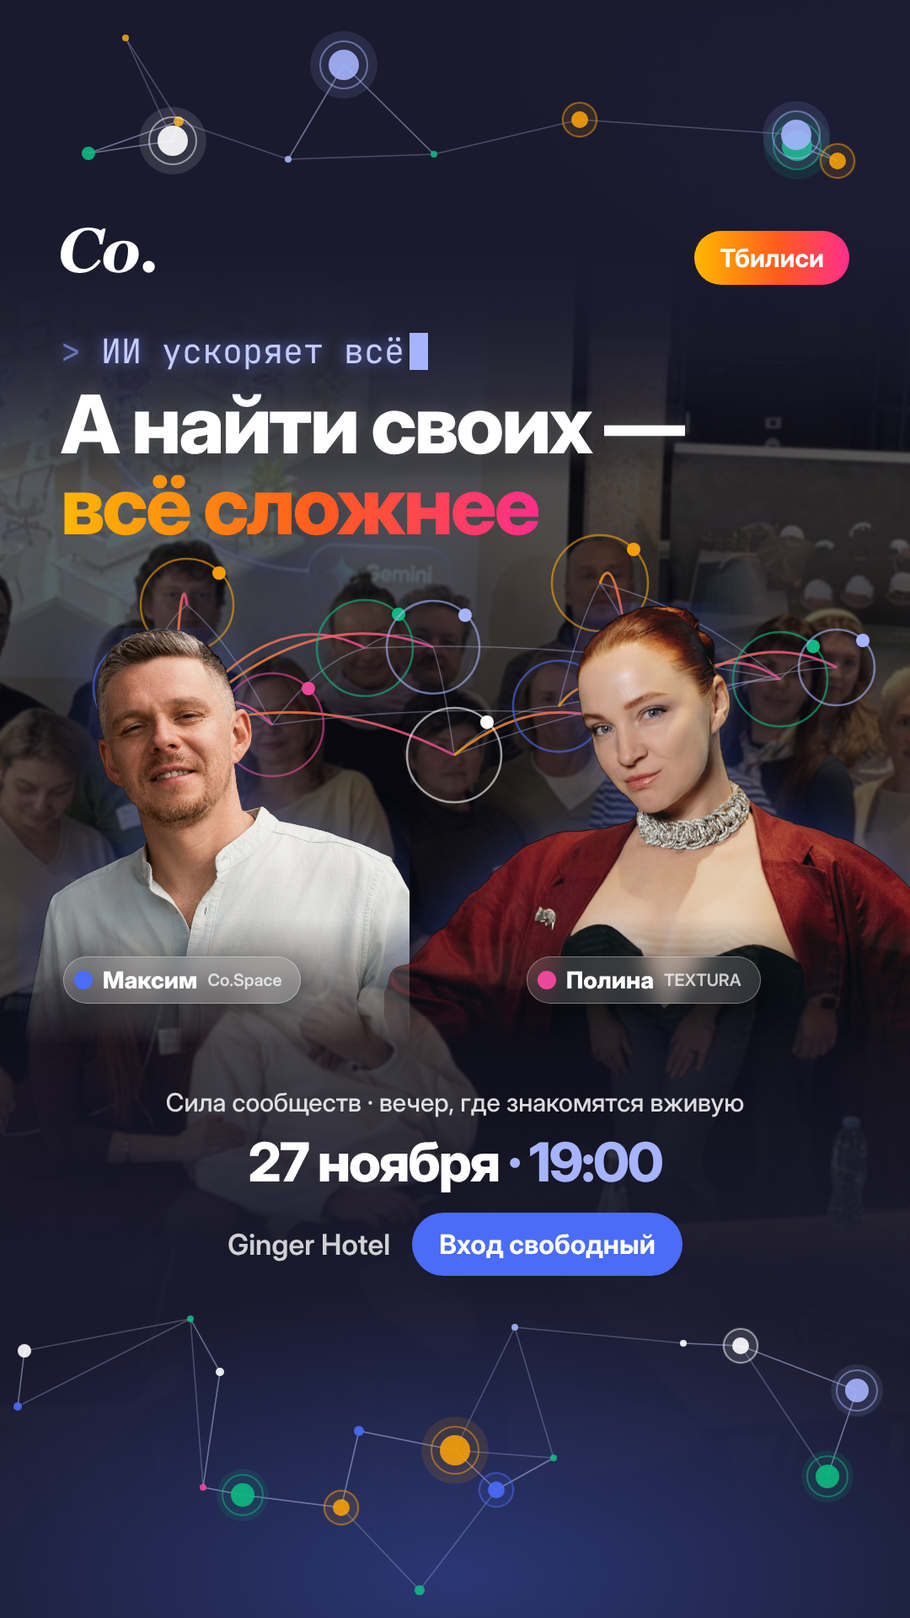
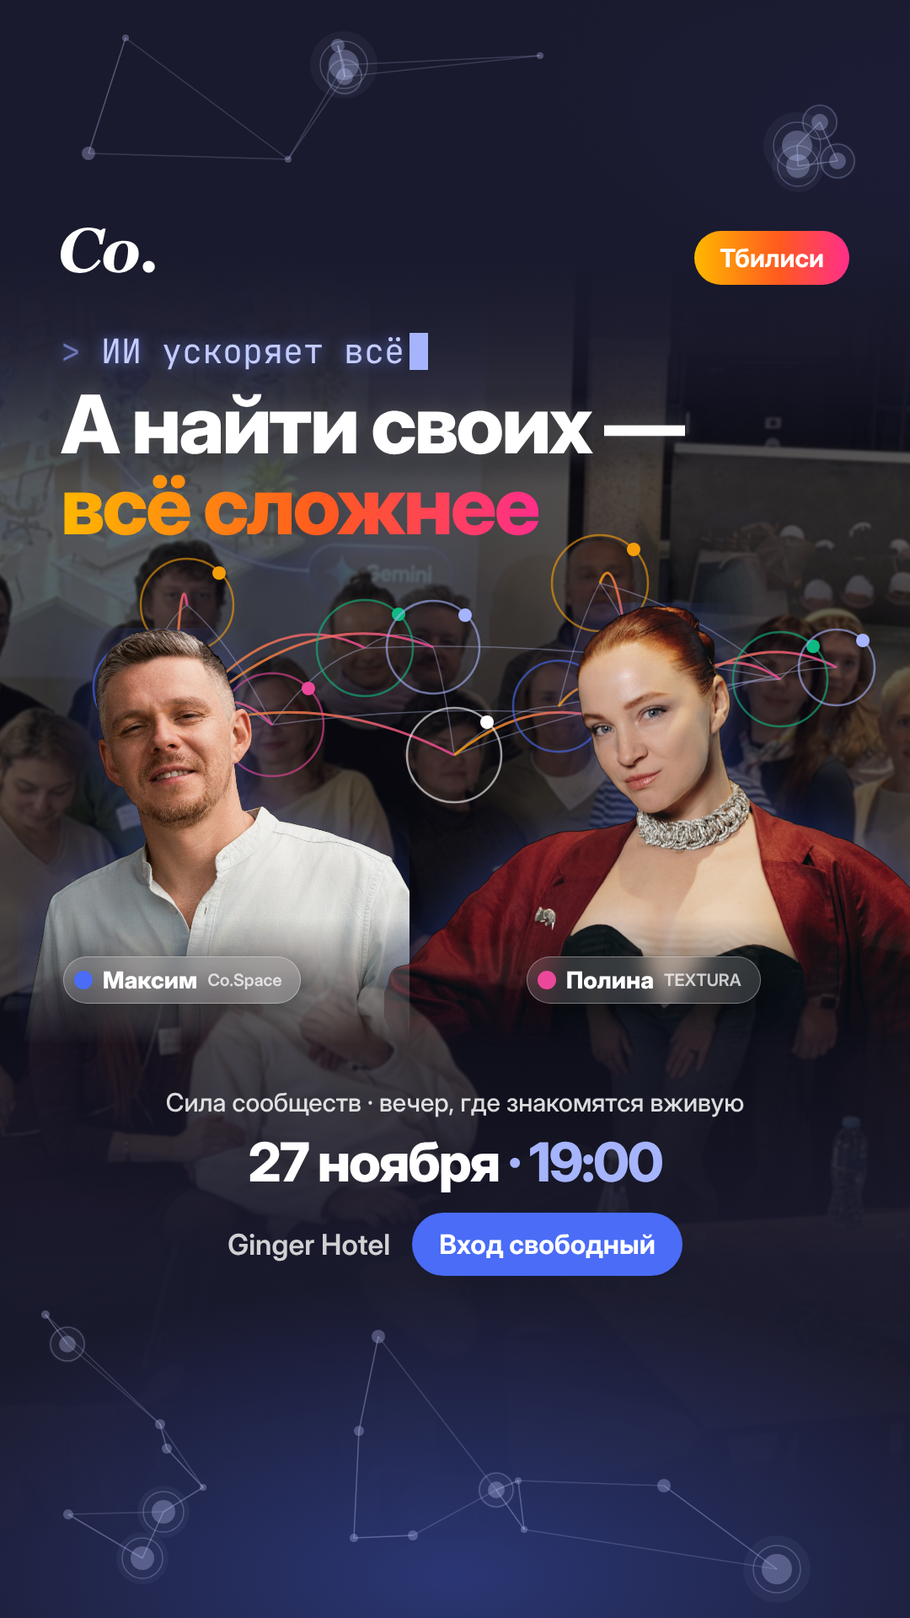
Сторис: декоративная сеть полупрозрачная, без цвета

diff --git a/creatives/src/poster/poster3-9x16.html b/creatives/src/poster/poster3-9x16.html
@@ -30,7 +30,7 @@ h1 em{font-style:normal;text-shadow:none;background:linear-gradient(90deg,#FFB80
 .place{font-size:34px;color:rgba(255,255,255,.8);font-weight:600}
 .cta{background:#4A6CF7;border-radius:44px;padding:18px 32px;font-size:32px;font-weight:700}
 </style></head><body><img class="bg" src="group.src.jpg"><div class="shade"></div>
-<div class="glow"></div><svg class="net" width="1080" height="1920" viewBox="0 0 1080 1920"><line x1="946" y1="173" x2="945" y2="160" stroke="#C7CEFF" stroke-width="1.5" opacity=".28"/><line x1="946" y1="173" x2="994" y2="191" stroke="#C7CEFF" stroke-width="1.5" opacity=".28"/><line x1="945" y1="160" x2="946" y2="173" stroke="#C7CEFF" stroke-width="1.5" opacity=".28"/><line x1="945" y1="160" x2="994" y2="191" stroke="#C7CEFF" stroke-width="1.5" opacity=".28"/><line x1="408" y1="77" x2="342" y2="189" stroke="#C7CEFF" stroke-width="1.5" opacity=".28"/><line x1="408" y1="77" x2="515" y2="183" stroke="#C7CEFF" stroke-width="1.5" opacity=".28"/><line x1="994" y1="191" x2="946" y2="173" stroke="#C7CEFF" stroke-width="1.5" opacity=".28"/><line x1="994" y1="191" x2="945" y2="160" stroke="#C7CEFF" stroke-width="1.5" opacity=".28"/><line x1="212" y1="144" x2="205" y2="167" stroke="#C7CEFF" stroke-width="1.5" opacity=".28"/><line x1="212" y1="144" x2="105" y2="182" stroke="#C7CEFF" stroke-width="1.5" opacity=".28"/><line x1="205" y1="167" x2="212" y2="144" stroke="#C7CEFF" stroke-width="1.5" opacity=".28"/><line x1="205" y1="167" x2="105" y2="182" stroke="#C7CEFF" stroke-width="1.5" opacity=".28"/><line x1="105" y1="182" x2="205" y2="167" stroke="#C7CEFF" stroke-width="1.5" opacity=".28"/><line x1="105" y1="182" x2="212" y2="144" stroke="#C7CEFF" stroke-width="1.5" opacity=".28"/><line x1="342" y1="189" x2="408" y2="77" stroke="#C7CEFF" stroke-width="1.5" opacity=".28"/><line x1="342" y1="189" x2="212" y2="144" stroke="#C7CEFF" stroke-width="1.5" opacity=".28"/><line x1="149" y1="45" x2="212" y2="144" stroke="#C7CEFF" stroke-width="1.5" opacity=".28"/><line x1="149" y1="45" x2="205" y2="167" stroke="#C7CEFF" stroke-width="1.5" opacity=".28"/><line x1="515" y1="183" x2="408" y2="77" stroke="#C7CEFF" stroke-width="1.5" opacity=".28"/><line x1="515" y1="183" x2="342" y2="189" stroke="#C7CEFF" stroke-width="1.5" opacity=".28"/><line x1="688" y1="142" x2="515" y2="183" stroke="#C7CEFF" stroke-width="1.5" opacity=".28"/><line x1="688" y1="142" x2="945" y2="160" stroke="#C7CEFF" stroke-width="1.5" opacity=".28"/><line x1="498" y1="1887" x2="405" y2="1789" stroke="#C7CEFF" stroke-width="1.5" opacity=".28"/><line x1="498" y1="1887" x2="589" y2="1768" stroke="#C7CEFF" stroke-width="1.5" opacity=".28"/><line x1="29" y1="1603" x2="21" y2="1669" stroke="#C7CEFF" stroke-width="1.5" opacity=".28"/><line x1="29" y1="1603" x2="226" y2="1565" stroke="#C7CEFF" stroke-width="1.5" opacity=".28"/><line x1="589" y1="1768" x2="540" y2="1721" stroke="#C7CEFF" stroke-width="1.5" opacity=".28"/><line x1="589" y1="1768" x2="657" y2="1730" stroke="#C7CEFF" stroke-width="1.5" opacity=".28"/><line x1="540" y1="1721" x2="589" y2="1768" stroke="#C7CEFF" stroke-width="1.5" opacity=".28"/><line x1="540" y1="1721" x2="426" y2="1698" stroke="#C7CEFF" stroke-width="1.5" opacity=".28"/><line x1="611" y1="1575" x2="657" y2="1730" stroke="#C7CEFF" stroke-width="1.5" opacity=".28"/><line x1="611" y1="1575" x2="540" y2="1721" stroke="#C7CEFF" stroke-width="1.5" opacity=".28"/><line x1="241" y1="1765" x2="288" y2="1774" stroke="#C7CEFF" stroke-width="1.5" opacity=".28"/><line x1="241" y1="1765" x2="261" y2="1628" stroke="#C7CEFF" stroke-width="1.5" opacity=".28"/><line x1="811" y1="1594" x2="879" y2="1597" stroke="#C7CEFF" stroke-width="1.5" opacity=".28"/><line x1="811" y1="1594" x2="611" y2="1575" stroke="#C7CEFF" stroke-width="1.5" opacity=".28"/><line x1="21" y1="1669" x2="29" y2="1603" stroke="#C7CEFF" stroke-width="1.5" opacity=".28"/><line x1="21" y1="1669" x2="226" y2="1565" stroke="#C7CEFF" stroke-width="1.5" opacity=".28"/><line x1="982" y1="1752" x2="1017" y2="1650" stroke="#C7CEFF" stroke-width="1.5" opacity=".28"/><line x1="982" y1="1752" x2="879" y2="1597" stroke="#C7CEFF" stroke-width="1.5" opacity=".28"/><line x1="879" y1="1597" x2="811" y2="1594" stroke="#C7CEFF" stroke-width="1.5" opacity=".28"/><line x1="879" y1="1597" x2="1017" y2="1650" stroke="#C7CEFF" stroke-width="1.5" opacity=".28"/><line x1="426" y1="1698" x2="405" y2="1789" stroke="#C7CEFF" stroke-width="1.5" opacity=".28"/><line x1="426" y1="1698" x2="540" y2="1721" stroke="#C7CEFF" stroke-width="1.5" opacity=".28"/><line x1="657" y1="1730" x2="589" y2="1768" stroke="#C7CEFF" stroke-width="1.5" opacity=".28"/><line x1="657" y1="1730" x2="540" y2="1721" stroke="#C7CEFF" stroke-width="1.5" opacity=".28"/><line x1="261" y1="1628" x2="226" y2="1565" stroke="#C7CEFF" stroke-width="1.5" opacity=".28"/><line x1="261" y1="1628" x2="241" y2="1765" stroke="#C7CEFF" stroke-width="1.5" opacity=".28"/><line x1="226" y1="1565" x2="261" y2="1628" stroke="#C7CEFF" stroke-width="1.5" opacity=".28"/><line x1="226" y1="1565" x2="241" y2="1765" stroke="#C7CEFF" stroke-width="1.5" opacity=".28"/><line x1="1017" y1="1650" x2="982" y2="1752" stroke="#C7CEFF" stroke-width="1.5" opacity=".28"/><line x1="1017" y1="1650" x2="879" y2="1597" stroke="#C7CEFF" stroke-width="1.5" opacity=".28"/><line x1="405" y1="1789" x2="426" y2="1698" stroke="#C7CEFF" stroke-width="1.5" opacity=".28"/><line x1="405" y1="1789" x2="288" y2="1774" stroke="#C7CEFF" stroke-width="1.5" opacity=".28"/><line x1="288" y1="1774" x2="241" y2="1765" stroke="#C7CEFF" stroke-width="1.5" opacity=".28"/><line x1="288" y1="1774" x2="405" y2="1789" stroke="#C7CEFF" stroke-width="1.5" opacity=".28"/><circle cx="946" cy="173" r="40" fill="#10B981" opacity=".12"/><circle cx="946" cy="173" r="28" fill="none" stroke="#10B981" stroke-width="2" opacity=".5"/><circle cx="946" cy="173" r="18" fill="#10B981" opacity=".9"/><circle cx="945" cy="160" r="40" fill="#A5B4FC" opacity=".12"/><circle cx="945" cy="160" r="28" fill="none" stroke="#A5B4FC" stroke-width="2" opacity=".5"/><circle cx="945" cy="160" r="18" fill="#A5B4FC" opacity=".9"/><circle cx="408" cy="77" r="40" fill="#A5B4FC" opacity=".12"/><circle cx="408" cy="77" r="28" fill="none" stroke="#A5B4FC" stroke-width="2" opacity=".5"/><circle cx="408" cy="77" r="18" fill="#A5B4FC" opacity=".9"/><circle cx="994" cy="191" r="22" fill="#F59E0B" opacity=".12"/><circle cx="994" cy="191" r="20" fill="none" stroke="#F59E0B" stroke-width="2" opacity=".5"/><circle cx="994" cy="191" r="10" fill="#F59E0B" opacity=".9"/><circle cx="212" cy="144" r="6" fill="#F59E0B" opacity=".9"/><circle cx="205" cy="167" r="40" fill="#FFFFFF" opacity=".12"/><circle cx="205" cy="167" r="28" fill="none" stroke="#FFFFFF" stroke-width="2" opacity=".5"/><circle cx="205" cy="167" r="18" fill="#FFFFFF" opacity=".9"/><circle cx="105" cy="182" r="8" fill="#10B981" opacity=".9"/><circle cx="342" cy="189" r="4" fill="#A5B4FC" opacity=".9"/><circle cx="149" cy="45" r="4" fill="#F59E0B" opacity=".9"/><circle cx="515" cy="183" r="4" fill="#10B981" opacity=".9"/><circle cx="688" cy="142" r="22" fill="#F59E0B" opacity=".12"/><circle cx="688" cy="142" r="20" fill="none" stroke="#F59E0B" stroke-width="2" opacity=".5"/><circle cx="688" cy="142" r="10" fill="#F59E0B" opacity=".9"/><circle cx="498" cy="1887" r="6" fill="#10B981" opacity=".9"/><circle cx="29" cy="1603" r="8" fill="#FFFFFF" opacity=".9"/><circle cx="589" cy="1768" r="22" fill="#4A6CF7" opacity=".12"/><circle cx="589" cy="1768" r="20" fill="none" stroke="#4A6CF7" stroke-width="2" opacity=".5"/><circle cx="589" cy="1768" r="10" fill="#4A6CF7" opacity=".9"/><circle cx="540" cy="1721" r="40" fill="#F59E0B" opacity=".12"/><circle cx="540" cy="1721" r="28" fill="none" stroke="#F59E0B" stroke-width="2" opacity=".5"/><circle cx="540" cy="1721" r="18" fill="#F59E0B" opacity=".9"/><circle cx="611" cy="1575" r="4" fill="#A5B4FC" opacity=".9"/><circle cx="241" cy="1765" r="4" fill="#EC4899" opacity=".9"/><circle cx="811" cy="1594" r="4" fill="#FFFFFF" opacity=".9"/><circle cx="21" cy="1669" r="5" fill="#4A6CF7" opacity=".9"/><circle cx="982" cy="1752" r="31" fill="#10B981" opacity=".12"/><circle cx="982" cy="1752" r="24" fill="none" stroke="#10B981" stroke-width="2" opacity=".5"/><circle cx="982" cy="1752" r="14" fill="#10B981" opacity=".9"/><circle cx="879" cy="1597" r="22" fill="#FFFFFF" opacity=".12"/><circle cx="879" cy="1597" r="20" fill="none" stroke="#FFFFFF" stroke-width="2" opacity=".5"/><circle cx="879" cy="1597" r="10" fill="#FFFFFF" opacity=".9"/><circle cx="426" cy="1698" r="6" fill="#4A6CF7" opacity=".9"/><circle cx="657" cy="1730" r="4" fill="#10B981" opacity=".9"/><circle cx="261" cy="1628" r="5" fill="#FFFFFF" opacity=".9"/><circle cx="226" cy="1565" r="4" fill="#10B981" opacity=".9"/><circle cx="1017" cy="1650" r="31" fill="#A5B4FC" opacity=".12"/><circle cx="1017" cy="1650" r="24" fill="none" stroke="#A5B4FC" stroke-width="2" opacity=".5"/><circle cx="1017" cy="1650" r="14" fill="#A5B4FC" opacity=".9"/><circle cx="405" cy="1789" r="22" fill="#F59E0B" opacity=".12"/><circle cx="405" cy="1789" r="20" fill="none" stroke="#F59E0B" stroke-width="2" opacity=".5"/><circle cx="405" cy="1789" r="10" fill="#F59E0B" opacity=".9"/><circle cx="288" cy="1774" r="31" fill="#10B981" opacity=".12"/><circle cx="288" cy="1774" r="24" fill="none" stroke="#10B981" stroke-width="2" opacity=".5"/><circle cx="288" cy="1774" r="14" fill="#10B981" opacity=".9"/></svg>
+<div class="glow"></div><svg class="net" width="1080" height="1920" viewBox="0 0 1080 1920"><line x1="946" y1="173" x2="947" y2="197" stroke="#C7CEFF" stroke-width="1.5" opacity=".18"/><line x1="946" y1="173" x2="973" y2="145" stroke="#C7CEFF" stroke-width="1.5" opacity=".18"/><line x1="973" y1="145" x2="946" y2="173" stroke="#C7CEFF" stroke-width="1.5" opacity=".18"/><line x1="973" y1="145" x2="994" y2="191" stroke="#C7CEFF" stroke-width="1.5" opacity=".18"/><line x1="408" y1="77" x2="409" y2="91" stroke="#C7CEFF" stroke-width="1.5" opacity=".18"/><line x1="408" y1="77" x2="401" y2="54" stroke="#C7CEFF" stroke-width="1.5" opacity=".18"/><line x1="994" y1="191" x2="947" y2="197" stroke="#C7CEFF" stroke-width="1.5" opacity=".18"/><line x1="994" y1="191" x2="973" y2="145" stroke="#C7CEFF" stroke-width="1.5" opacity=".18"/><line x1="401" y1="54" x2="408" y2="77" stroke="#C7CEFF" stroke-width="1.5" opacity=".18"/><line x1="401" y1="54" x2="409" y2="91" stroke="#C7CEFF" stroke-width="1.5" opacity=".18"/><line x1="641" y1="66" x2="408" y2="77" stroke="#C7CEFF" stroke-width="1.5" opacity=".18"/><line x1="641" y1="66" x2="409" y2="91" stroke="#C7CEFF" stroke-width="1.5" opacity=".18"/><line x1="105" y1="182" x2="149" y2="45" stroke="#C7CEFF" stroke-width="1.5" opacity=".18"/><line x1="105" y1="182" x2="342" y2="189" stroke="#C7CEFF" stroke-width="1.5" opacity=".18"/><line x1="947" y1="197" x2="946" y2="173" stroke="#C7CEFF" stroke-width="1.5" opacity=".18"/><line x1="947" y1="197" x2="994" y2="191" stroke="#C7CEFF" stroke-width="1.5" opacity=".18"/><line x1="342" y1="189" x2="409" y2="91" stroke="#C7CEFF" stroke-width="1.5" opacity=".18"/><line x1="342" y1="189" x2="408" y2="77" stroke="#C7CEFF" stroke-width="1.5" opacity=".18"/><line x1="149" y1="45" x2="105" y2="182" stroke="#C7CEFF" stroke-width="1.5" opacity=".18"/><line x1="149" y1="45" x2="342" y2="189" stroke="#C7CEFF" stroke-width="1.5" opacity=".18"/><line x1="409" y1="91" x2="408" y2="77" stroke="#C7CEFF" stroke-width="1.5" opacity=".18"/><line x1="409" y1="91" x2="401" y2="54" stroke="#C7CEFF" stroke-width="1.5" opacity=".18"/><line x1="81" y1="1797" x2="169" y2="1849" stroke="#C7CEFF" stroke-width="1.5" opacity=".18"/><line x1="81" y1="1797" x2="194" y2="1794" stroke="#C7CEFF" stroke-width="1.5" opacity=".18"/><line x1="922" y1="1862" x2="788" y2="1763" stroke="#C7CEFF" stroke-width="1.5" opacity=".18"/><line x1="922" y1="1862" x2="622" y2="1815" stroke="#C7CEFF" stroke-width="1.5" opacity=".18"/><line x1="420" y1="1825" x2="490" y2="1822" stroke="#C7CEFF" stroke-width="1.5" opacity=".18"/><line x1="420" y1="1825" x2="426" y2="1698" stroke="#C7CEFF" stroke-width="1.5" opacity=".18"/><line x1="622" y1="1815" x2="589" y2="1768" stroke="#C7CEFF" stroke-width="1.5" opacity=".18"/><line x1="622" y1="1815" x2="615" y2="1757" stroke="#C7CEFF" stroke-width="1.5" opacity=".18"/><line x1="194" y1="1794" x2="241" y2="1765" stroke="#C7CEFF" stroke-width="1.5" opacity=".18"/><line x1="194" y1="1794" x2="169" y2="1849" stroke="#C7CEFF" stroke-width="1.5" opacity=".18"/><line x1="589" y1="1768" x2="615" y2="1757" stroke="#C7CEFF" stroke-width="1.5" opacity=".18"/><line x1="589" y1="1768" x2="622" y2="1815" stroke="#C7CEFF" stroke-width="1.5" opacity=".18"/><line x1="190" y1="1690" x2="198" y2="1719" stroke="#C7CEFF" stroke-width="1.5" opacity=".18"/><line x1="190" y1="1690" x2="241" y2="1765" stroke="#C7CEFF" stroke-width="1.5" opacity=".18"/><line x1="490" y1="1822" x2="420" y2="1825" stroke="#C7CEFF" stroke-width="1.5" opacity=".18"/><line x1="490" y1="1822" x2="589" y2="1768" stroke="#C7CEFF" stroke-width="1.5" opacity=".18"/><line x1="80" y1="1595" x2="54" y2="1560" stroke="#C7CEFF" stroke-width="1.5" opacity=".18"/><line x1="80" y1="1595" x2="190" y2="1690" stroke="#C7CEFF" stroke-width="1.5" opacity=".18"/><line x1="241" y1="1765" x2="194" y2="1794" stroke="#C7CEFF" stroke-width="1.5" opacity=".18"/><line x1="241" y1="1765" x2="198" y2="1719" stroke="#C7CEFF" stroke-width="1.5" opacity=".18"/><line x1="615" y1="1757" x2="589" y2="1768" stroke="#C7CEFF" stroke-width="1.5" opacity=".18"/><line x1="615" y1="1757" x2="622" y2="1815" stroke="#C7CEFF" stroke-width="1.5" opacity=".18"/><line x1="54" y1="1560" x2="80" y2="1595" stroke="#C7CEFF" stroke-width="1.5" opacity=".18"/><line x1="54" y1="1560" x2="190" y2="1690" stroke="#C7CEFF" stroke-width="1.5" opacity=".18"/><line x1="449" y1="1586" x2="426" y2="1698" stroke="#C7CEFF" stroke-width="1.5" opacity=".18"/><line x1="449" y1="1586" x2="589" y2="1768" stroke="#C7CEFF" stroke-width="1.5" opacity=".18"/><line x1="788" y1="1763" x2="922" y2="1862" stroke="#C7CEFF" stroke-width="1.5" opacity=".18"/><line x1="788" y1="1763" x2="615" y2="1757" stroke="#C7CEFF" stroke-width="1.5" opacity=".18"/><line x1="169" y1="1849" x2="194" y2="1794" stroke="#C7CEFF" stroke-width="1.5" opacity=".18"/><line x1="169" y1="1849" x2="81" y2="1797" stroke="#C7CEFF" stroke-width="1.5" opacity=".18"/><line x1="426" y1="1698" x2="449" y2="1586" stroke="#C7CEFF" stroke-width="1.5" opacity=".18"/><line x1="426" y1="1698" x2="420" y2="1825" stroke="#C7CEFF" stroke-width="1.5" opacity=".18"/><line x1="198" y1="1719" x2="190" y2="1690" stroke="#C7CEFF" stroke-width="1.5" opacity=".18"/><line x1="198" y1="1719" x2="241" y2="1765" stroke="#C7CEFF" stroke-width="1.5" opacity=".18"/><circle cx="946" cy="173" r="40" fill="#C7CEFF" opacity=".05"/><circle cx="946" cy="173" r="28" fill="none" stroke="#C7CEFF" stroke-width="1.5" opacity=".25"/><circle cx="946" cy="173" r="18" fill="#C7CEFF" opacity=".3"/><circle cx="973" cy="145" r="22" fill="#C7CEFF" opacity=".05"/><circle cx="973" cy="145" r="20" fill="none" stroke="#C7CEFF" stroke-width="1.5" opacity=".25"/><circle cx="973" cy="145" r="10" fill="#C7CEFF" opacity=".3"/><circle cx="408" cy="77" r="40" fill="#C7CEFF" opacity=".05"/><circle cx="408" cy="77" r="28" fill="none" stroke="#C7CEFF" stroke-width="1.5" opacity=".25"/><circle cx="408" cy="77" r="18" fill="#C7CEFF" opacity=".3"/><circle cx="994" cy="191" r="22" fill="#C7CEFF" opacity=".05"/><circle cx="994" cy="191" r="20" fill="none" stroke="#C7CEFF" stroke-width="1.5" opacity=".25"/><circle cx="994" cy="191" r="10" fill="#C7CEFF" opacity=".3"/><circle cx="401" cy="54" r="8" fill="#C7CEFF" opacity=".3"/><circle cx="641" cy="66" r="4" fill="#C7CEFF" opacity=".3"/><circle cx="105" cy="182" r="8" fill="#C7CEFF" opacity=".3"/><circle cx="947" cy="197" r="31" fill="#C7CEFF" opacity=".05"/><circle cx="947" cy="197" r="24" fill="none" stroke="#C7CEFF" stroke-width="1.5" opacity=".25"/><circle cx="947" cy="197" r="14" fill="#C7CEFF" opacity=".3"/><circle cx="342" cy="189" r="4" fill="#C7CEFF" opacity=".3"/><circle cx="149" cy="45" r="4" fill="#C7CEFF" opacity=".3"/><circle cx="409" cy="91" r="22" fill="#C7CEFF" opacity=".05"/><circle cx="409" cy="91" r="20" fill="none" stroke="#C7CEFF" stroke-width="1.5" opacity=".25"/><circle cx="409" cy="91" r="10" fill="#C7CEFF" opacity=".3"/><circle cx="81" cy="1797" r="6" fill="#C7CEFF" opacity=".3"/><circle cx="922" cy="1862" r="40" fill="#C7CEFF" opacity=".05"/><circle cx="922" cy="1862" r="28" fill="none" stroke="#C7CEFF" stroke-width="1.5" opacity=".25"/><circle cx="922" cy="1862" r="18" fill="#C7CEFF" opacity=".3"/><circle cx="420" cy="1825" r="5" fill="#C7CEFF" opacity=".3"/><circle cx="622" cy="1815" r="4" fill="#C7CEFF" opacity=".3"/><circle cx="194" cy="1794" r="31" fill="#C7CEFF" opacity=".05"/><circle cx="194" cy="1794" r="24" fill="none" stroke="#C7CEFF" stroke-width="1.5" opacity=".25"/><circle cx="194" cy="1794" r="14" fill="#C7CEFF" opacity=".3"/><circle cx="589" cy="1768" r="22" fill="#C7CEFF" opacity=".05"/><circle cx="589" cy="1768" r="20" fill="none" stroke="#C7CEFF" stroke-width="1.5" opacity=".25"/><circle cx="589" cy="1768" r="10" fill="#C7CEFF" opacity=".3"/><circle cx="190" cy="1690" r="6" fill="#C7CEFF" opacity=".3"/><circle cx="490" cy="1822" r="6" fill="#C7CEFF" opacity=".3"/><circle cx="80" cy="1595" r="22" fill="#C7CEFF" opacity=".05"/><circle cx="80" cy="1595" r="20" fill="none" stroke="#C7CEFF" stroke-width="1.5" opacity=".25"/><circle cx="80" cy="1595" r="10" fill="#C7CEFF" opacity=".3"/><circle cx="241" cy="1765" r="4" fill="#C7CEFF" opacity=".3"/><circle cx="615" cy="1757" r="4" fill="#C7CEFF" opacity=".3"/><circle cx="54" cy="1560" r="5" fill="#C7CEFF" opacity=".3"/><circle cx="449" cy="1586" r="8" fill="#C7CEFF" opacity=".3"/><circle cx="788" cy="1763" r="8" fill="#C7CEFF" opacity=".3"/><circle cx="169" cy="1849" r="31" fill="#C7CEFF" opacity=".05"/><circle cx="169" cy="1849" r="24" fill="none" stroke="#C7CEFF" stroke-width="1.5" opacity=".25"/><circle cx="169" cy="1849" r="14" fill="#C7CEFF" opacity=".3"/><circle cx="426" cy="1698" r="6" fill="#C7CEFF" opacity=".3"/><circle cx="198" cy="1719" r="6" fill="#C7CEFF" opacity=".3"/></svg>
 <svg class="net" width="1080" height="1920" viewBox="0 0 1080 1920"><defs><linearGradient id="gl" x1="0" x2="1"><stop offset="0" stop-color="#F59E0B"/><stop offset="1" stop-color="#EC4899"/></linearGradient></defs><path d="M166,816 Q194,737 222,718" stroke="#C7CEFF" stroke-width="1.5" fill="none" opacity=".35"/><path d="M926,806 Q960,769 993,792" stroke="#C7CEFF" stroke-width="1.5" fill="none" opacity=".35"/><path d="M222,718 Q272,759 323,860" stroke="#C7CEFF" stroke-width="1.5" fill="none" opacity=".35"/><path d="M433,769 Q474,738 514,768" stroke="#C7CEFF" stroke-width="1.5" fill="none" opacity=".35"/><path d="M663,838 Q726,818 788,857" stroke="#C7CEFF" stroke-width="1.5" fill="none" opacity=".35"/><path d="M788,857 Q890,794 993,792" stroke="#C7CEFF" stroke-width="1.5" fill="none" opacity=".35"/><path d="M323,860 Q378,784 433,769" stroke="#C7CEFF" stroke-width="1.5" fill="none" opacity=".35"/><path d="M663,838 Q688,735 712,692" stroke="#C7CEFF" stroke-width="1.5" fill="none" opacity=".35"/><path d="M166,816 Q244,808 323,860" stroke="#C7CEFF" stroke-width="1.5" fill="none" opacity=".35"/><path d="M514,768 Q526,802 539,896" stroke="#C7CEFF" stroke-width="1.5" fill="none" opacity=".35"/><path d="M788,857 Q857,802 926,806" stroke="#C7CEFF" stroke-width="1.5" fill="none" opacity=".35"/><path d="M539,896 Q601,837 663,838" stroke="#C7CEFF" stroke-width="1.5" fill="none" opacity=".35"/><path d="M433,769 Q680,758 926,806" stroke="#C7CEFF" stroke-width="1.5" fill="none" opacity=".35"/><path d="M712,692 Q819,719 926,806" stroke="#C7CEFF" stroke-width="1.5" fill="none" opacity=".35"/><path d="M539,896 Q732,821 926,806" stroke="#C7CEFF" stroke-width="1.5" fill="none" opacity=".35"/><path d="M712,692 Q750,744 788,857" stroke="#C7CEFF" stroke-width="1.5" fill="none" opacity=".35"/><path d="M323,860 Q556,828 788,857" stroke="#C7CEFF" stroke-width="1.5" fill="none" opacity=".35"/><path d="M755,870 Q772,797 788,857" stroke="url(#gl)" stroke-width="3" fill="none" opacity=".85"/><path d="M755,870 Q709,778 663,838" stroke="url(#gl)" stroke-width="3" fill="none" opacity=".85"/><path d="M755,870 Q840,746 926,806" stroke="url(#gl)" stroke-width="3" fill="none" opacity=".85"/><path d="M755,870 Q734,632 712,692" stroke="url(#gl)" stroke-width="3" fill="none" opacity=".85"/><path d="M755,870 Q647,810 539,896" stroke="url(#gl)" stroke-width="3" fill="none" opacity=".85"/><path d="M755,870 Q874,732 993,792" stroke="url(#gl)" stroke-width="3" fill="none" opacity=".85"/><path d="M205,870 Q186,756 166,816" stroke="url(#gl)" stroke-width="3" fill="none" opacity=".85"/><path d="M205,870 Q264,800 323,860" stroke="url(#gl)" stroke-width="3" fill="none" opacity=".85"/><path d="M205,870 Q214,658 222,718" stroke="url(#gl)" stroke-width="3" fill="none" opacity=".85"/><path d="M205,870 Q319,709 433,769" stroke="url(#gl)" stroke-width="3" fill="none" opacity=".85"/><path d="M205,870 Q360,708 514,768" stroke="url(#gl)" stroke-width="3" fill="none" opacity=".85"/><path d="M205,870 Q372,810 539,896" stroke="url(#gl)" stroke-width="3" fill="none" opacity=".85"/><circle cx="166" cy="816" r="55" fill="none" stroke="#4A6CF7" stroke-width="2.5" opacity=".6"/><circle cx="204" cy="778" r="8" fill="#4A6CF7"/><circle cx="222" cy="718" r="55" fill="none" stroke="#F59E0B" stroke-width="2.5" opacity=".6"/><circle cx="260" cy="680" r="8" fill="#F59E0B"/><circle cx="323" cy="860" r="61" fill="none" stroke="#EC4899" stroke-width="2.5" opacity=".6"/><circle cx="366" cy="817" r="8" fill="#EC4899"/><circle cx="433" cy="769" r="57" fill="none" stroke="#10B981" stroke-width="2.5" opacity=".6"/><circle cx="473" cy="729" r="8" fill="#10B981"/><circle cx="514" cy="768" r="55" fill="none" stroke="#A5B4FC" stroke-width="2.5" opacity=".6"/><circle cx="552" cy="730" r="8" fill="#A5B4FC"/><circle cx="539" cy="896" r="56" fill="none" stroke="#FFFFFF" stroke-width="2.5" opacity=".6"/><circle cx="578" cy="857" r="8" fill="#FFFFFF"/><circle cx="663" cy="838" r="54" fill="none" stroke="#4A6CF7" stroke-width="2.5" opacity=".6"/><circle cx="701" cy="800" r="8" fill="#4A6CF7"/><circle cx="712" cy="692" r="57" fill="none" stroke="#F59E0B" stroke-width="2.5" opacity=".6"/><circle cx="752" cy="652" r="8" fill="#F59E0B"/><circle cx="788" cy="857" r="57" fill="none" stroke="#EC4899" stroke-width="2.5" opacity=".6"/><circle cx="828" cy="817" r="8" fill="#EC4899"/><circle cx="926" cy="806" r="56" fill="none" stroke="#10B981" stroke-width="2.5" opacity=".6"/><circle cx="965" cy="767" r="8" fill="#10B981"/><circle cx="993" cy="792" r="45" fill="none" stroke="#A5B4FC" stroke-width="2.5" opacity=".6"/><circle cx="1024" cy="760" r="8" fill="#A5B4FC"/></svg>
 <div class="person" style="left:21px;top:745px;height:546px;-webkit-mask-image:linear-gradient(180deg,#000 63.2%,transparent 90.7%)"><img src="max_cut.png"></div><div class="person" style="left:456px;top:715px;height:910px;-webkit-mask-image:linear-gradient(180deg,#000 41.2%,transparent 57.7%)"><img src="polina_cut.png"></div>
 <div class="name" style="left:625px;top:1135px"><i style="background:#EC4899"></i>Полина <small>TEXTURA</small></div>

diff --git a/creatives/src/poster/build_poster3.py b/creatives/src/poster/build_poster3.py
@@ -113,18 +113,18 @@ def deco_svg(L, zones):
     pts = []
     for y0, y1, n in zones:
         for _ in range(n):
-            pts.append((rnd.randint(20, W - 20), rnd.randint(y0, y1), rnd.choice([4, 5, 6, 8, 10, 14, 18]), rnd.choice(COLORS)))
+            pts.append((rnd.randint(20, W - 20), rnd.randint(y0, y1), rnd.choice([4, 5, 6, 8, 10, 14, 18]), "#C7CEFF"))
     out = []
     for i, a in enumerate(pts):
         d = sorted(range(len(pts)), key=lambda j: (pts[j][0] - a[0]) ** 2 + (pts[j][1] - a[1]) ** 2)
         for j in d[1:3]:
             b = pts[j]
-            out.append(f'<line x1="{a[0]}" y1="{a[1]}" x2="{b[0]}" y2="{b[1]}" stroke="#C7CEFF" stroke-width="1.5" opacity=".28"/>')
+            out.append(f'<line x1="{a[0]}" y1="{a[1]}" x2="{b[0]}" y2="{b[1]}" stroke="#C7CEFF" stroke-width="1.5" opacity=".18"/>')
     for x, y, r, c in pts:
         if r >= 10:
-            out.append(f'<circle cx="{x}" cy="{y}" r="{r * 2.2:.0f}" fill="{c}" opacity=".12"/>')
-            out.append(f'<circle cx="{x}" cy="{y}" r="{r + 10}" fill="none" stroke="{c}" stroke-width="2" opacity=".5"/>')
-        out.append(f'<circle cx="{x}" cy="{y}" r="{r}" fill="{c}" opacity=".9"/>')
+            out.append(f'<circle cx="{x}" cy="{y}" r="{r * 2.2:.0f}" fill="{c}" opacity=".05"/>')
+            out.append(f'<circle cx="{x}" cy="{y}" r="{r + 10}" fill="none" stroke="{c}" stroke-width="1.5" opacity=".25"/>')
+        out.append(f'<circle cx="{x}" cy="{y}" r="{r}" fill="{c}" opacity=".3"/>')
     return f'<svg class="net" width="{W}" height="{H}" viewBox="0 0 {W} {H}">{"".join(out)}</svg>'
 
 
